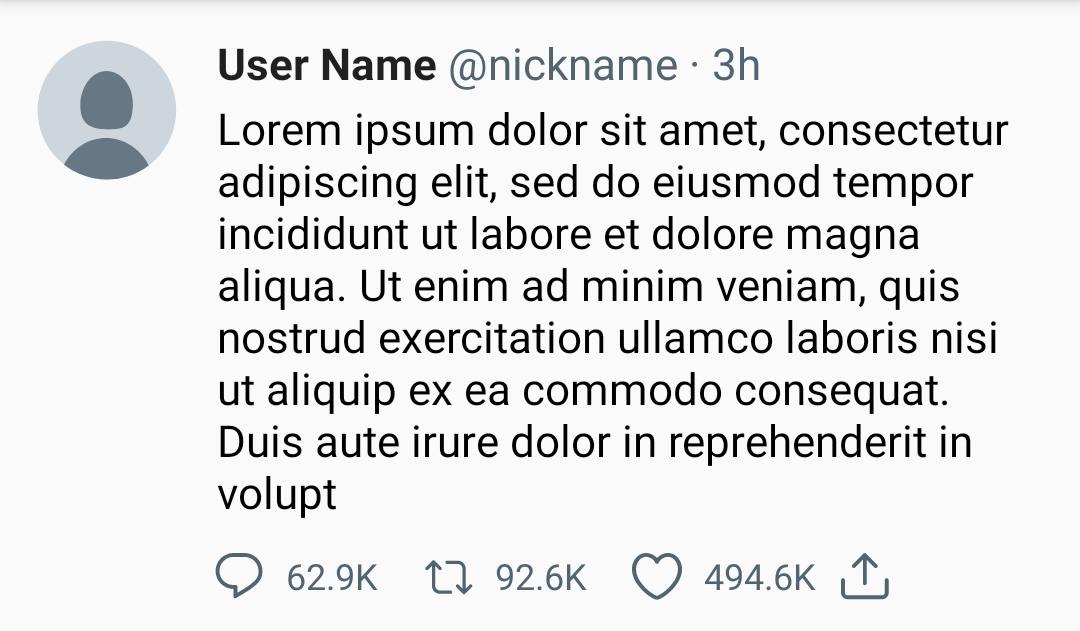
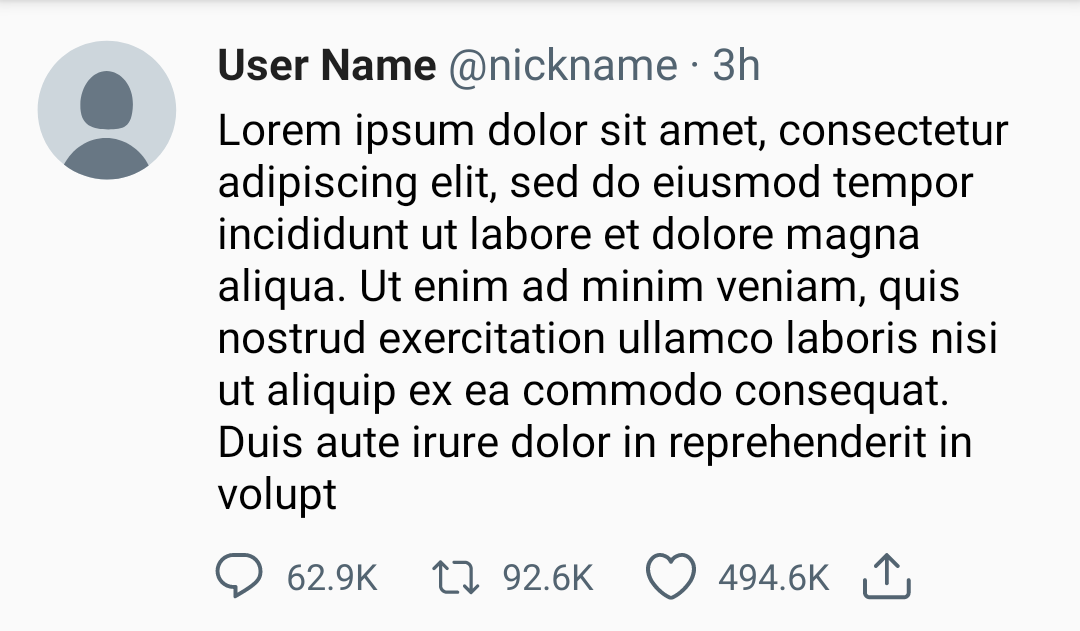
[Add] TweetStats & improved ActionButtons

Changed region(s): [[0.5806, 0.8732, 0.7639, 0.9635], [0.3972, 0.8732, 0.55, 0.9635], [0.7639, 0.8732, 0.8556, 0.9635]]

diff --git a/library-components/src/main/java/com/rumosoft/library_components/components/TweetStats.kt b/library-components/src/main/java/com/rumosoft/library_components/components/TweetStats.kt
@@ -1,0 +1,75 @@
+package com.rumosoft.library_components.components
+
+import androidx.compose.foundation.clickable
+import androidx.compose.foundation.layout.Column
+import androidx.compose.foundation.layout.ColumnScope
+import androidx.compose.foundation.layout.Row
+import androidx.compose.foundation.layout.padding
+import androidx.compose.material.Divider
+import androidx.compose.material.Text
+import androidx.compose.runtime.Composable
+import androidx.compose.ui.Modifier
+import androidx.compose.ui.text.font.FontWeight
+import androidx.compose.ui.tooling.preview.Preview
+import androidx.compose.ui.unit.dp
+import com.rumosoft.library_components.presentation.theme.TwitterMirroringTheme
+
+@Composable
+fun ColumnScope.TweetStats(stats: List<Pair<String, String>>) {
+    Divider(
+        color = TwitterMirroringTheme.colors.secondaryVariant,
+        thickness = 1.dp,
+        modifier = Modifier
+            .padding(top = TwitterMirroringTheme.paddings.medium)
+            .padding(horizontal = 11.dp)
+    )
+    Row {
+        stats.forEach { stat ->
+            Stat(stat)
+        }
+    }
+    Divider(
+        color = TwitterMirroringTheme.colors.secondaryVariant,
+        thickness = 1.dp,
+        modifier = Modifier
+            .padding(horizontal = 11.dp)
+    )
+}
+
+@Composable
+private fun Stat(stat: Pair<String, String>) {
+    Row(
+        modifier = Modifier
+            .padding(start = 11.dp)
+            .clickable { }
+            .padding(vertical = 11.dp),
+    ) {
+        Text(
+            text = stat.first,
+            fontWeight = FontWeight.Bold,
+        )
+        Text(
+            text = stat.second,
+            modifier = Modifier.padding(
+                start = TwitterMirroringTheme.paddings.tinyPadding,
+            )
+        )
+    }
+}
+
+@Preview(
+    showBackground = true
+)
+@Composable
+fun TweetStatsPreview() {
+    TwitterMirroringTheme {
+        Column {
+            TweetStats(
+                listOf(
+                    "22" to "Retweets",
+                    "33" to "Likes",
+                )
+            )
+        }
+    }
+}

diff --git a/library-components/src/main/java/com/rumosoft/library_components/components/TweetActionButtons.kt b/library-components/src/main/java/com/rumosoft/library_components/components/TweetActionButtons.kt
@@ -1,6 +1,5 @@
 package com.rumosoft.library_components.components
 
-import androidx.compose.foundation.layout.Arrangement
 import androidx.compose.foundation.layout.Row
 import androidx.compose.foundation.layout.fillMaxWidth
 import androidx.compose.foundation.layout.padding
@@ -21,31 +20,35 @@ fun TweetActionButtons(
     numRetweets: String,
     numLikes: String,
     modifier: Modifier = Modifier,
+    showValue: Boolean = true,
     onActionsClick: TweetActionsClick,
 ) {
     Row(
         modifier = modifier.fillMaxWidth()
-            .padding(horizontal = 11.dp),
-        horizontalArrangement = Arrangement.SpaceBetween
+            .padding(end = 11.dp),
     ) {
         ActionButton(
             action = TweetActionComments(numComments),
             modifier = Modifier.weight(1f),
+            showValue = showValue,
             onClick = onActionsClick::onCommentsClick,
         )
         ActionButton(
             action = TweetActionRetweet(numRetweets),
             modifier = Modifier.weight(1f),
+            showValue = showValue,
             onClick = onActionsClick::onRetweetsClick,
         )
         ActionButton(
             action = TweetActionLike(numLikes),
             modifier = Modifier.weight(1f),
+            showValue = showValue,
             onClick = onActionsClick::onLikesClick,
         )
         ActionButton(
             action = TweetActionShare(),
             modifier = Modifier.weight(1f),
+            showValue = showValue,
             onClick = onActionsClick::onShareClick,
         )
     }

diff --git a/library-components/src/main/java/com/rumosoft/library_components/components/ActionButton.kt b/library-components/src/main/java/com/rumosoft/library_components/components/ActionButton.kt
@@ -1,6 +1,7 @@
 package com.rumosoft.library_components.components
 
 import androidx.compose.foundation.clickable
+import androidx.compose.foundation.layout.Arrangement
 import androidx.compose.foundation.layout.Row
 import androidx.compose.foundation.layout.height
 import androidx.compose.foundation.layout.padding
@@ -28,16 +29,19 @@ import kotlin.random.Random
 fun ActionButton(
     action: TweetAction,
     modifier: Modifier = Modifier,
+    showValue: Boolean = true,
     onClick: () -> Unit = {},
 ) {
     CompositionLocalProvider(LocalRippleTheme provides ClearRippleTheme) {
         Row(
             modifier = modifier
                 .height(40.dp)
+                .padding(start = 11.dp)
                 .clickable {
                     onClick()
                 },
             verticalAlignment = Alignment.CenterVertically,
+            horizontalArrangement = if (showValue) Arrangement.Start else Arrangement.Center
         ) {
             Icon(
                 painter = painterResource(id = action.iconResource),
@@ -46,7 +50,7 @@ fun ActionButton(
                 modifier = Modifier
                     .size(18.dp),
             )
-            if (action is TweetActionWithValue && action.value.isNotEmpty()) {
+            if (showValue && action is TweetActionWithValue && action.value.isNotEmpty()) {
                 Text(
                     text = action.value,
                     style = TwitterMirroringTheme.typography.caption,

diff --git a/library-components/src/main/java/com/rumosoft/library_components/components/TweetFullWidth.kt b/library-components/src/main/java/com/rumosoft/library_components/components/TweetFullWidth.kt
@@ -11,8 +11,11 @@ import androidx.compose.runtime.remember
 import androidx.compose.ui.Alignment
 import androidx.compose.ui.Modifier
 import androidx.compose.ui.platform.LocalContext
+import androidx.compose.ui.res.stringResource
+import androidx.compose.ui.text.font.FontWeight
 import androidx.compose.ui.tooling.preview.Preview
 import androidx.compose.ui.unit.dp
+import com.rumosoft.library_components.R
 import com.rumosoft.library_components.components.model.ImageUI
 import com.rumosoft.library_components.components.model.TweetActionsClick
 import com.rumosoft.library_components.components.sampledata.SampleTweetData.sampleTweet
@@ -96,10 +99,17 @@ fun TweetFullWidth(
                 start = TwitterMirroringTheme.paddings.medium
             )
         )
+        TweetStats(
+            listOf(
+                numRetweets to stringResource(id = R.string.retweets),
+                numLikes to stringResource(id = R.string.likes),
+            )
+        )
         TweetActionButtons(
             numComments = numComments,
             numRetweets = numRetweets,
             numLikes = numLikes,
+            showValue = false,
             onActionsClick = onActionsClick,
             modifier = Modifier.align(Alignment.End)
         )

diff --git a/library-components/src/androidTest/java/com/rumosoft/library_components/components/TweetStatsKtTest.kt b/library-components/src/androidTest/java/com/rumosoft/library_components/components/TweetStatsKtTest.kt
@@ -1,0 +1,29 @@
+package com.rumosoft.library_components.components
+
+import androidx.compose.foundation.layout.Column
+import androidx.compose.ui.test.junit4.createComposeRule
+import com.karumi.shot.ScreenshotTest
+import org.junit.Rule
+import org.junit.Test
+
+internal class TweetStatsKtTest : ScreenshotTest {
+    @get:Rule
+    val composeTestRule = createComposeRule()
+
+    @Test
+    fun tweetActionButtons_comparesScreenshot() {
+        val stats = listOf(
+            "1" to "stat1",
+            "2" to "stat2",
+            "3" to "stat3",
+        )
+
+        composeTestRule.setContent {
+            Column {
+                TweetStats(stats)
+            }
+        }
+
+        compareScreenshot(composeTestRule)
+    }
+}

diff --git a/feature-timeline/src/main/java/com/rumosoft/feature_timeline/presentation/screen/model/Tweet.kt b/feature-timeline/src/main/java/com/rumosoft/feature_timeline/presentation/screen/model/Tweet.kt
@@ -42,7 +42,7 @@ fun Tweet.toTweetUI(): TweetUI {
         if (count <= 0) return ""
         if (count < 1000) return count.toString()
         val exp = (ln(count.toDouble()) / ln(1000.0)).toInt()
-        return String.format("%.1f %c", count / 1000.0.pow(exp.toDouble()), "kMGTPE"[exp - 1])
+        return String.format("%.1f%c", count / 1000.0.pow(exp.toDouble()), "KMGTPE"[exp - 1])
     }
 
     return TweetUI(
